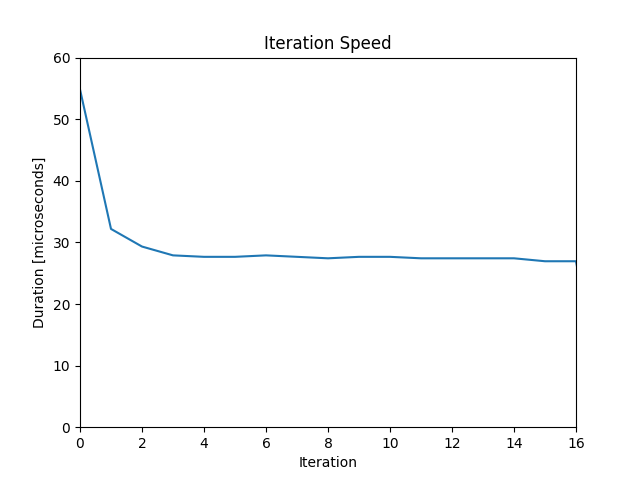
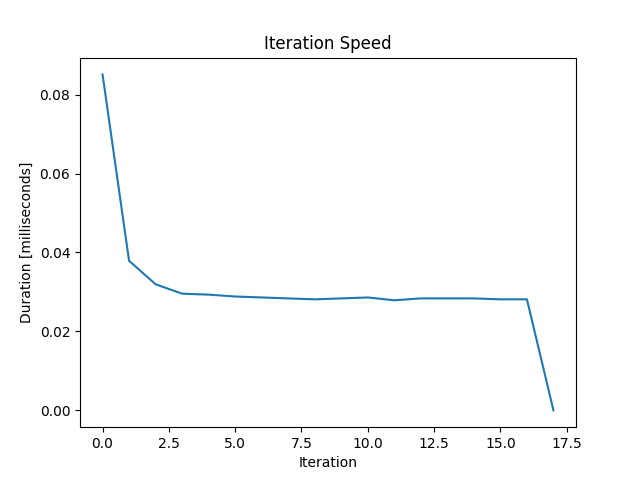
cleans tree

diff --git a/plain.py b/plain.py
@@ -1,0 +1,45 @@
+from time import time
+import numpy as np
+import matplotlib.pyplot as plt
+
+maxIter = 18
+n = 3
+rho = 1
+
+timer = np.zeros([1,maxIter])
+x = np.zeros([n,maxIter])
+q = np.ones([n, 1])
+u = np.zeros([n,maxIter])
+avg = np.zeros([maxIter])
+
+x[:,0] = np.array([1, .3, .1])
+u = -x
+
+for k in range(maxIter-1):
+    timerInit = time()
+    for i in range(n):
+        x[i,k+1] = rho*(avg[k]-u[i,k])/(2*q[i] + rho)
+
+    avg[k+1] = np.mean(x[:,k+1])
+
+    for i in range(n):
+        u[i,k+1] = u[i,k]+x[i,k+1]-avg[k+1]
+    timer[0,k] = timerInit-time()
+
+t = np.linspace(0,17,18)
+
+plt.figure()
+plt.title('State Evolution')
+plt.xlabel('time')
+plt.ylabel('state')
+plt.plot(t,x[0,:],t,x[1,:],t,x[2,:],t,avg)
+plt.axis([0, 17, 0, 1])
+plt.legend(["agent1","agent2","agent3","average"])
+plt.savefig('plainX.png')
+
+plt.figure()
+plt.title('Iteration Speed')
+plt.xlabel('Iteration')
+plt.ylabel('Duration [milliseconds]')
+plt.plot(t,-1E3*timer[0,:])
+plt.savefig('plainTimer.png')
